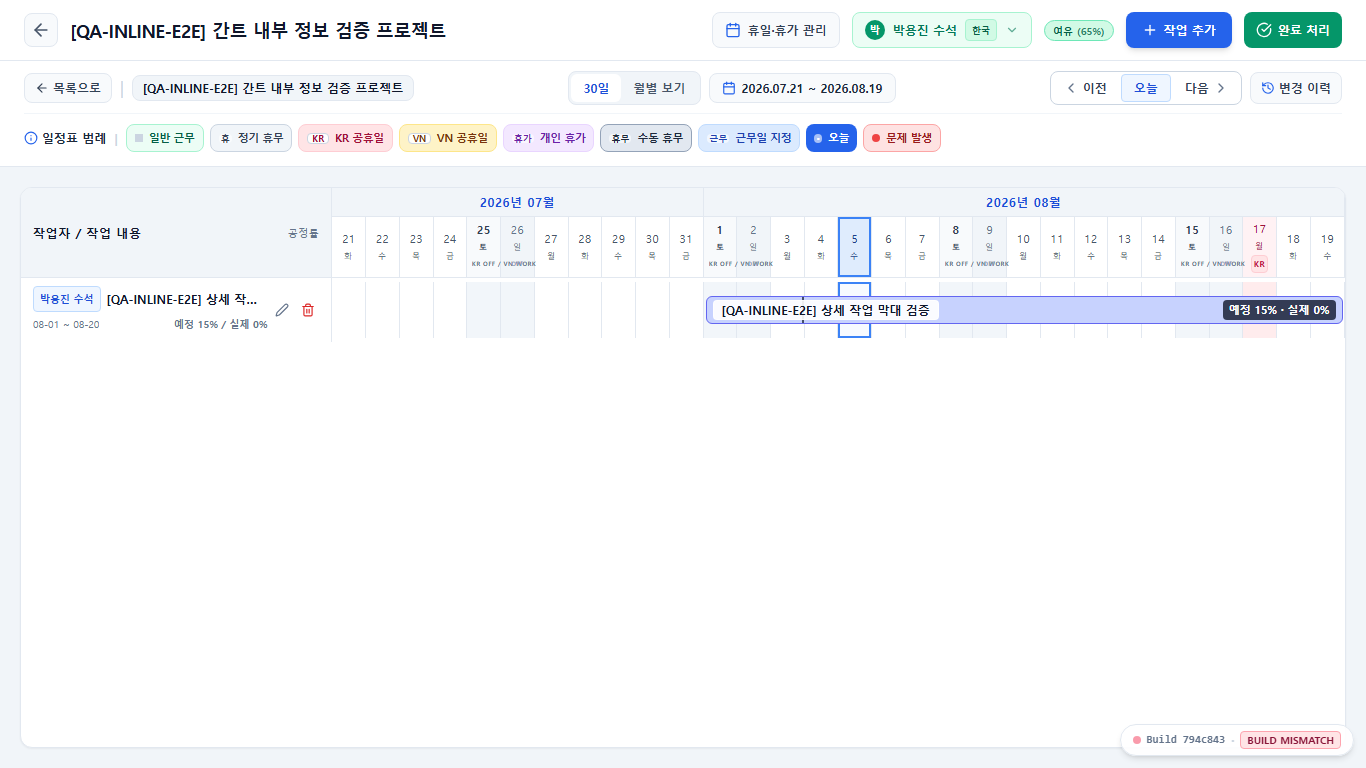
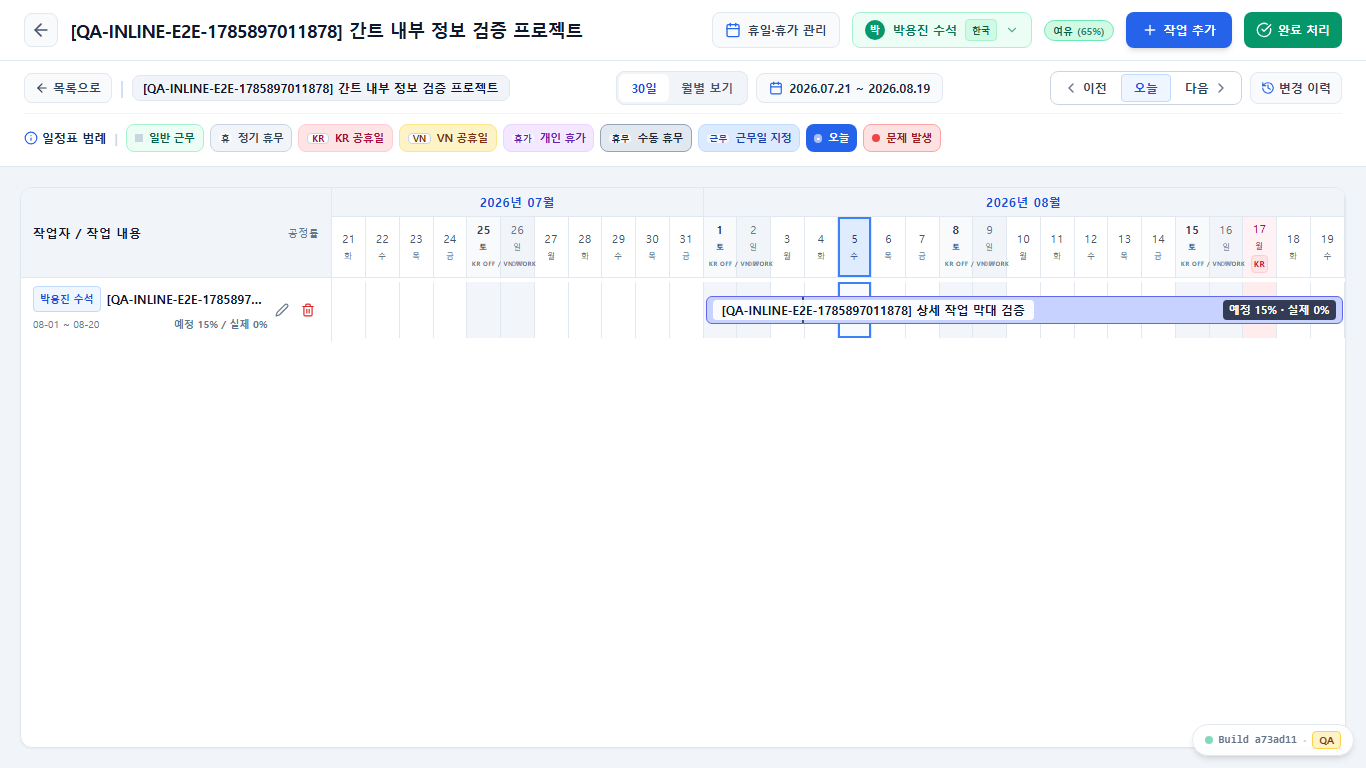
fix: update E2E version indicator async wait logic

diff --git a/tests/e2e/gantt-inline-content.spec.ts b/tests/e2e/gantt-inline-content.spec.ts
@@ -244,6 +244,13 @@ test.describe('Strict Gantt Inline Content & Build SHA E2E Suite', () => {
     await expect(versionIndicator).toBeVisible({ timeout: 10000 });
     await expect(versionIndicator).not.toContainText('Build mismatch');
 
+    // Wait for async /api/version state update
+    await page.waitForFunction(() => {
+      const el = document.querySelector('[data-testid="build-version-indicator"]');
+      const backend = el?.getAttribute('data-backend-sha');
+      return backend && backend !== 'unknown';
+    }, { timeout: 10000 });
+
     const frontendSha = await versionIndicator.getAttribute('data-frontend-sha');
     const backendSha = await versionIndicator.getAttribute('data-backend-sha');
 
